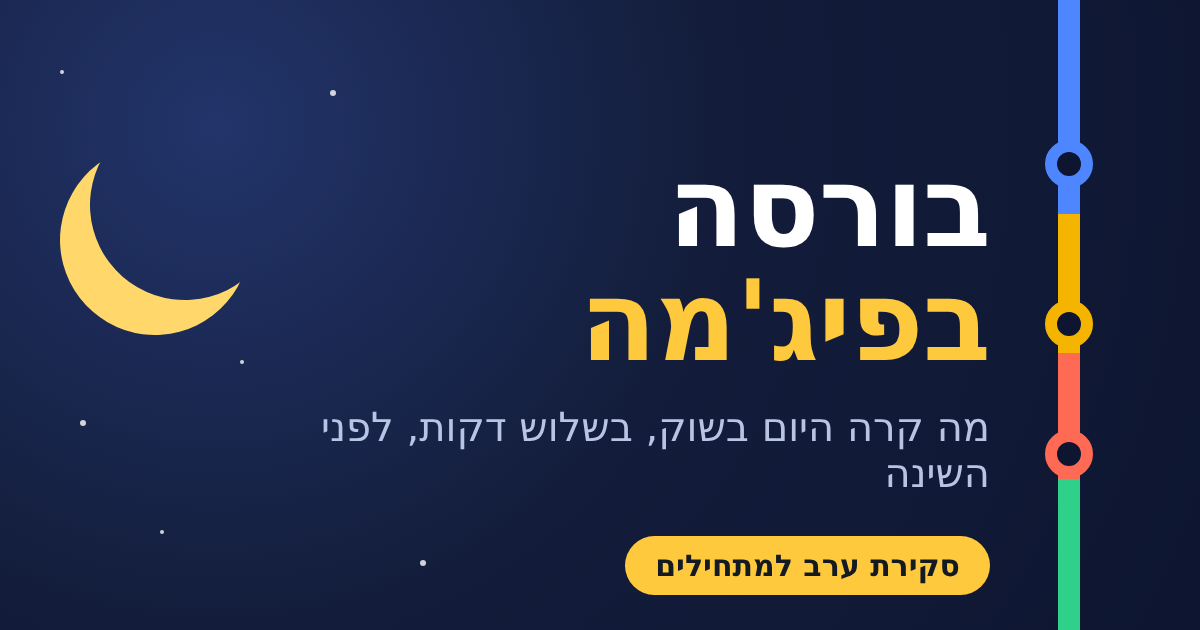
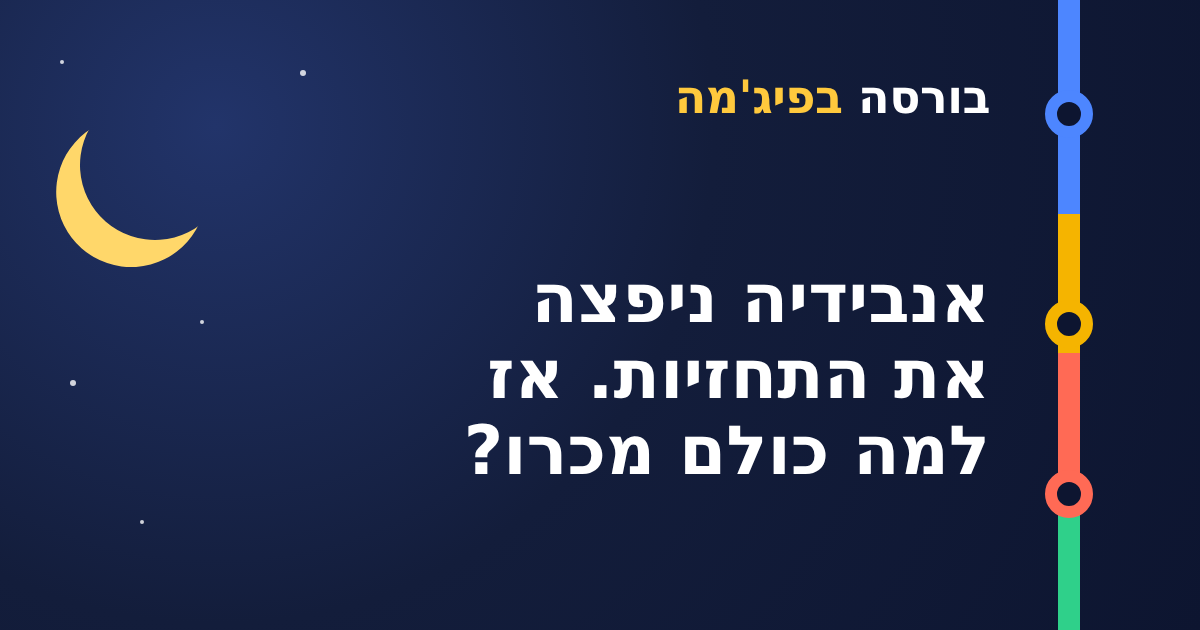
Share card shows the daily hook line only
Claude-Session: https://claude.ai/code/session_019YX1Z9nz74iQ5wC6KUdcz8

diff --git a/index.html b/index.html
@@ -11,9 +11,9 @@
 <meta property="og:site_name" content="בורסה בפיג'מה">
 <meta property="og:locale" content="he_IL">
 <meta property="og:url" content="https://skirat-shvakim.github.io/">
-<meta property="og:title" content="בורסה בפיג'מה · אנבידיה הכתה את התחזיות, והמשקיעים בכל זאת מכרו">
+<meta property="og:title" content="אנבידיה ניפצה את התחזיות. אז למה כולם מכרו?">
 <meta property="og:description" content="הפד רומז על העלאות ריבית, הזהב והנפט נופלים, והדולר מגיע לשיא של שנה מול השקל.">
-<meta property="og:image" content="https://skirat-shvakim.github.io/og.png?v=2">
+<meta property="og:image" content="https://skirat-shvakim.github.io/og.png?v=1811">
 <meta property="og:image:width" content="1200">
 <meta property="og:image:height" content="630">
 <meta name="twitter:card" content="summary_large_image">
@@ -442,8 +442,8 @@ button:focus-visible,input:focus-visible,summary:focus-visible,a:focus-visible{o
 
   // ===== share =====
   document.querySelectorAll('[data-share]').forEach(b=>b.addEventListener('click',async()=>{
-    const h=document.querySelector('#hero h1').textContent.trim(),url='https://skirat-shvakim.github.io/';
-    const text=`בורסה בפיג'מה 🌙 · ${h}\nסקירת ערב קצרה למתחילים:`;
+    const h=(document.querySelector('meta[property="og:title"]')||{}).content||document.querySelector('#hero h1').textContent.trim(),d=new Date(),url='https://skirat-shvakim.github.io/?d='+String(d.getDate()).padStart(2,'0')+String(d.getMonth()+1).padStart(2,'0');
+    const text=`${h}\n🌙 בורסה בפיג'מה`;
     if(navigator.share){try{await navigator.share({title:"בורסה בפיג'מה",text,url});return}catch(e){if(e&&e.name==='AbortError')return}}
     window.open('https://wa.me/?text='+encodeURIComponent(text+'\n'+url),'_blank','noopener');
   }));

diff --git a/tools/make_og.py b/tools/make_og.py
@@ -1,0 +1,39 @@
+#!/usr/bin/env python3
+"""Render the daily WhatsApp share card (og.png, 1200x630).
+Usage: python3 tools/make_og.py "<the hook line of the day>" [output path]
+The card shows only the brand and one punchy hook line."""
+import sys, html, pathlib
+from playwright.sync_api import sync_playwright
+
+hook = html.escape(sys.argv[1].strip())
+out = sys.argv[2] if len(sys.argv) > 2 else str(pathlib.Path(__file__).resolve().parent.parent / "og.png")
+size = 92 if len(sys.argv[1]) <= 28 else 80 if len(sys.argv[1]) <= 42 else 68
+
+page = f"""<!DOCTYPE html><html lang="he" dir="rtl"><head><meta charset="utf-8"><style>
+*{{margin:0;box-sizing:border-box}}
+body{{width:1200px;height:630px;background:radial-gradient(circle at 18% 20%,#22346a 0,#131d3b 45%,#0d1530 100%);font-family:"Heebo","Noto Sans Hebrew","DejaVu Sans",sans-serif;position:relative;overflow:hidden;color:#fff}}
+.line{{position:absolute;right:120px;top:0;bottom:0;width:22px;background:linear-gradient(#4d86ff 0 34%,#f5b400 34% 56%,#ff6a55 56% 76%,#2fd08a 76% 100%)}}
+.st{{position:absolute;right:107px;width:48px;height:48px;border-radius:50%;background:#0d1530;border:12px solid}}
+.brand{{position:absolute;right:210px;top:70px;font-size:46px;font-weight:900;letter-spacing:-.5px}}
+.brand span{{color:#ffc93d}}
+.hook{{position:absolute;right:210px;left:250px;top:190px;bottom:70px;display:flex;align-items:center;font-size:{size}px;font-weight:900;line-height:1.12;text-wrap:balance}}
+.moon{{position:absolute;left:80px;top:90px;width:150px;height:150px;border-radius:50%;box-shadow:-30px 20px 0 0 #ffd76a;transform:rotate(-15deg)}}
+.star{{position:absolute;width:6px;height:6px;border-radius:50%;background:#fff;opacity:.8}}
+</style></head><body>
+<div class="moon"></div>
+<i class="star" style="left:70px;top:380px"></i><i class="star" style="left:200px;top:320px;width:4px;height:4px"></i><i class="star" style="left:300px;top:70px"></i><i class="star" style="left:140px;top:520px;width:4px;height:4px"></i><i class="star" style="left:60px;top:60px;width:4px;height:4px"></i>
+<div class="line"></div>
+<div class="st" style="top:90px;border-color:#4d86ff"></div>
+<div class="st" style="top:300px;border-color:#f5b400"></div>
+<div class="st" style="top:470px;border-color:#ff6a55"></div>
+<div class="brand">בורסה <span>בפיג'מה</span></div>
+<div class="hook">{hook}</div>
+</body></html>"""
+
+with sync_playwright() as p:
+    b = p.chromium.launch()
+    pg = b.new_page(viewport={"width": 1200, "height": 630})
+    pg.set_content(page)
+    pg.screenshot(path=out)
+    b.close()
+print("wrote", out)

diff --git a/CLAUDE.md b/CLAUDE.md
@@ -20,7 +20,8 @@ A daily evening market briefing in Hebrew for beginners, published as a static w
 - Sections (ids): `hero` (headline, subtitle, mood chip, 3 numbered bullets) · `me` (מה זה אומר עליי) · `numbers` (6 tiles with context tags + "עוד נתונים, למתקדמים") · `stocks` (המניות שלי) · `story` · `geo` · `think` (incl. "מה אם כולם טועים?") · `word` (מונח היום) · `faqs` (prepared Q&A accordion) · `tomorrow` · `sources`.
 - Script data filled daily: `STOCKS` (20 tickers: NVDA AAPL MSFT TSLA AMZN GOOGL META AVGO AMD NFLX PLTR JPM V KO TEVA CHKP NICE WIX MBLY ESLT; `price:null` = no data today), `STOCK_NOTE`, `GLOSSARY` (tappable terms `<button class="term" data-t="key">`), `FAQ`.
 - Stock chooser: each reader picks up to 6 tickers, saved in localStorage (`mine`, `pick`).
-- Sharing: Open Graph tags in <head> (og:title = "בורסה בפיג'מה · <today's headline>", og:description = subtitle, og:image = /og.png) must be updated daily — WhatsApp previews read them (no JS). `apple-touch-icon.png` = home-screen icon. Share buttons (`[data-share]`, in hero and above the footer) use the native share sheet or wa.me and read the headline at runtime.
+- Daily HOOK: one punchy line (≤ 9 words, usually a question, e.g. "מה קרה בדוח של אנבידיה?", "למה הדולר זינק היום?") — the most attention-grabbing true fact of the day. It is og:title, the text on the share card, and the first line of the WhatsApp message. Card: `python3 tools/make_og.py "<hook>"` renders og.png (brand + hook only, no extra sentences); og:image URL gets ?v=<DDMM>.
+- Sharing: Open Graph tags in <head> (og:title = the hook, og:description = subtitle, og:image = /og.png?v=<DDMM>) must be updated daily — WhatsApp previews read them (no JS). `apple-touch-icon.png` = home-screen icon. Share buttons (`[data-share]`, in hero and above the footer) use the native share sheet or wa.me and read the headline at runtime.
 - Visitor counter: GoatCounter script before </body> (`https://adamandrachel.goatcounter.com/count`) — must stay on every edition. Dashboard: https://adamandrachel.goatcounter.com
 - Footer must keep: disclaimer "הסקירה היא סיכום מידע וניתוח בלבד ואינה מהווה ייעוץ השקעות." + "קרדיט: אדם שימקייביץ" + update time.
 
